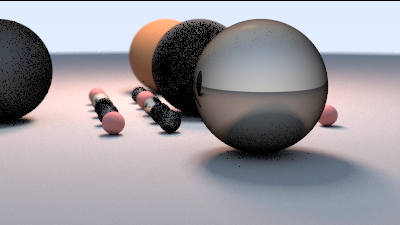
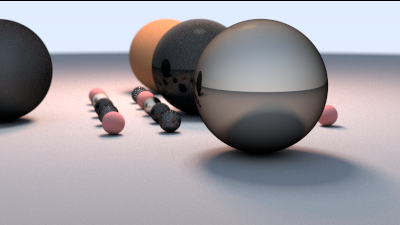
Increase minimum samples to 32 and set variance threshold to 0 for improved rendering quality

diff --git a/src/main.rs b/src/main.rs
@@ -23,8 +23,8 @@ struct Cli {
 const ASPECT_RATIO: f32 = 16.0 / 9.0;
 const IMAGE_WIDTH: usize = 400;
 const IMAGE_HEIGHT: usize = (IMAGE_WIDTH as f32 / ASPECT_RATIO) as usize;
-const MIN_SAMPLES: u32 = 8;
-const VARIANCE_THRESHOLD: f32 = 0.0005; // You can tweak this!
+const MIN_SAMPLES: u32 = 32;
+const VARIANCE_THRESHOLD: f32 = 0.0; // You can tweak this!
 
 
 
